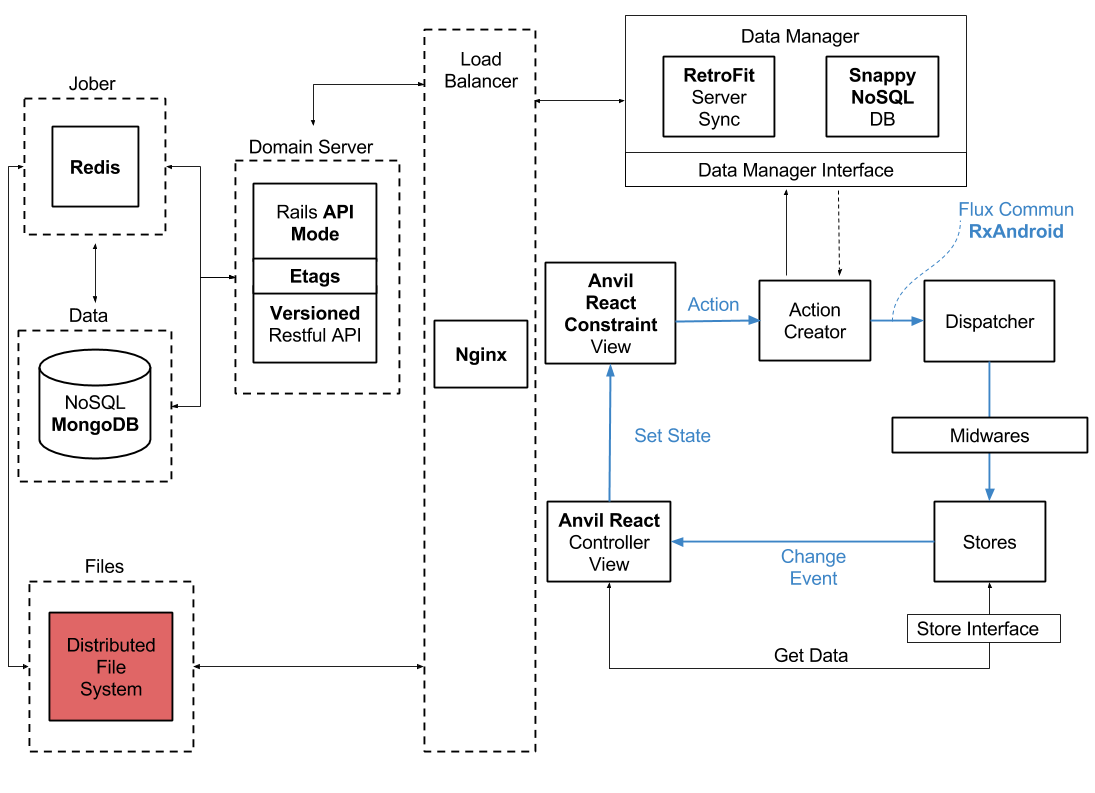
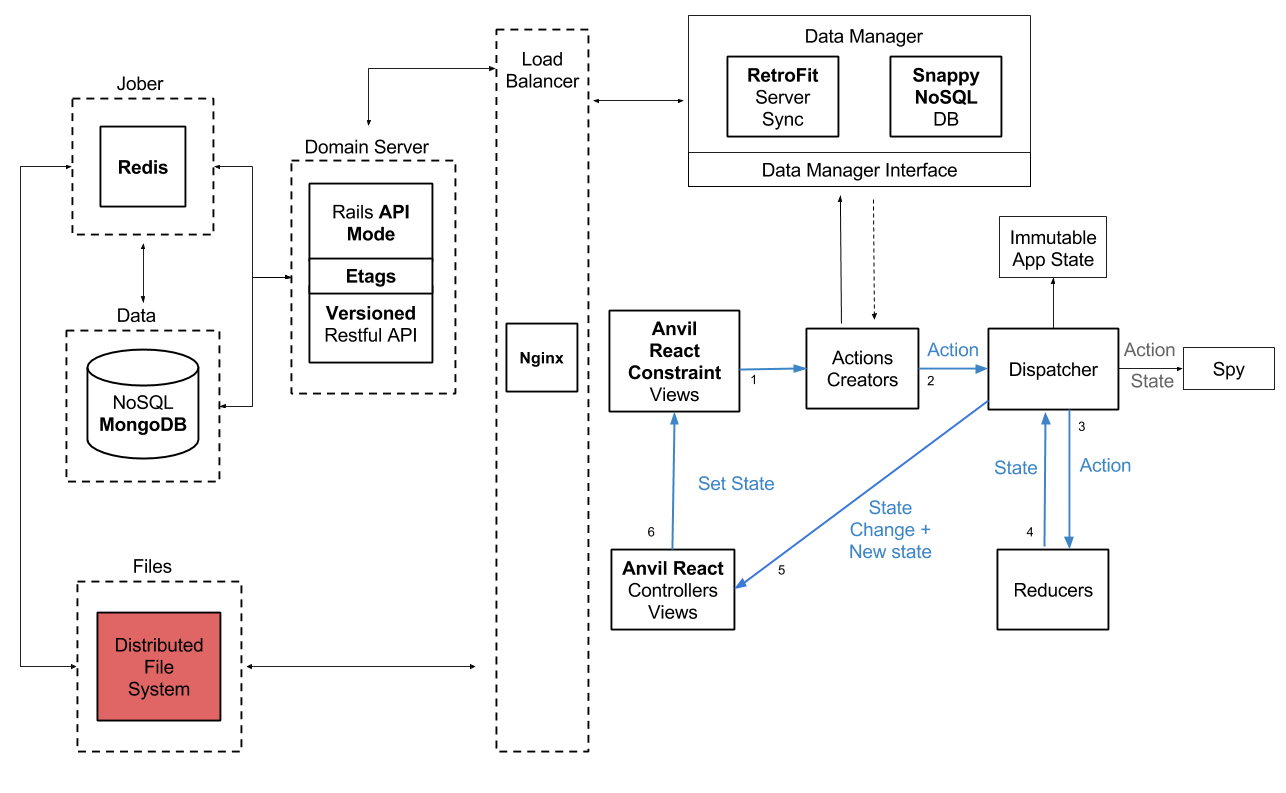
Architecture defined and Fluxxan included
- Architecture image and first version of app state sample on readme.
- Fluxxan gradle dependency included.

diff --git a/README.md b/README.md
@@ -3,3 +3,12 @@
 A Android sample that implements Flux architecture with React and NoSQL
 
 ![Gif Sample Flux Architecture](architecture_gif_sample.png)
+
+``` javascript
+{
+    gifPath: "path",
+    gifTitle: "string",
+    gifState: PAUSED, //or LOOPING
+    gifWatched: false
+}
+```
